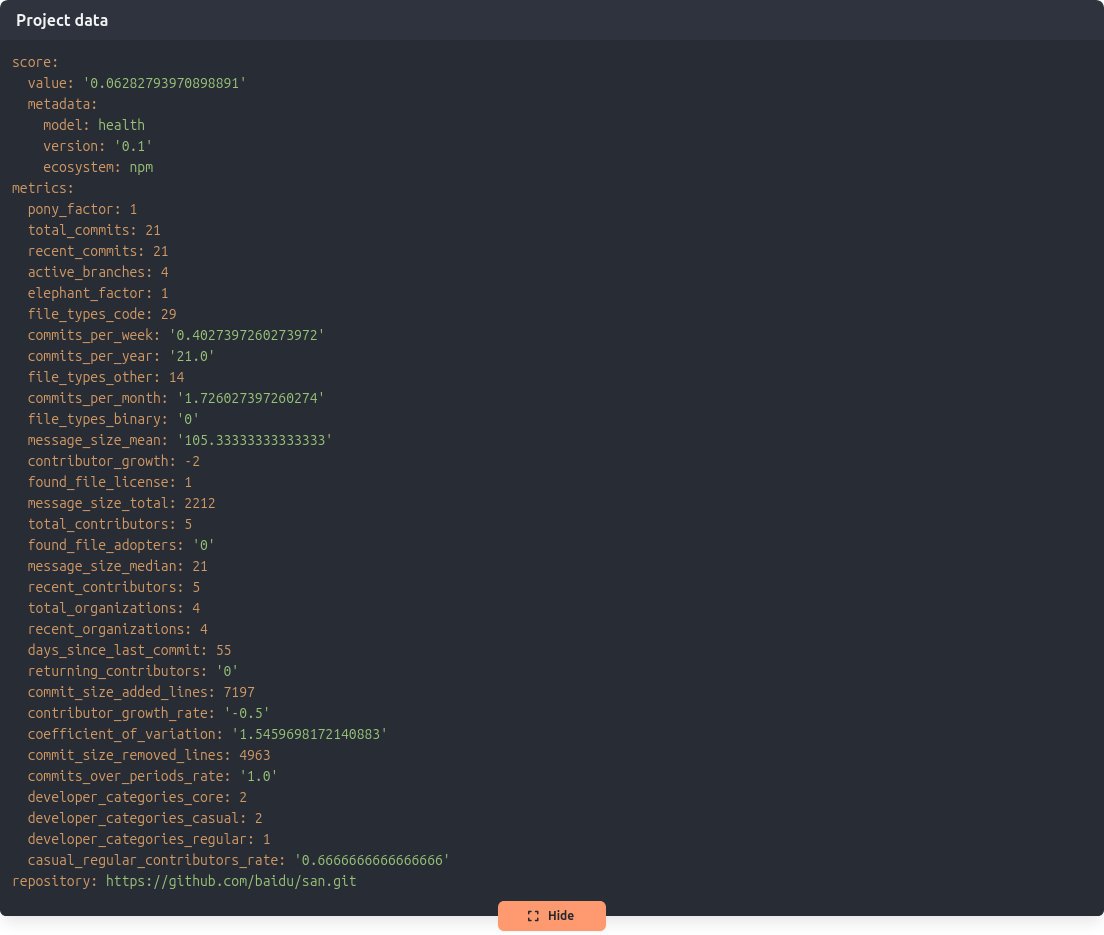
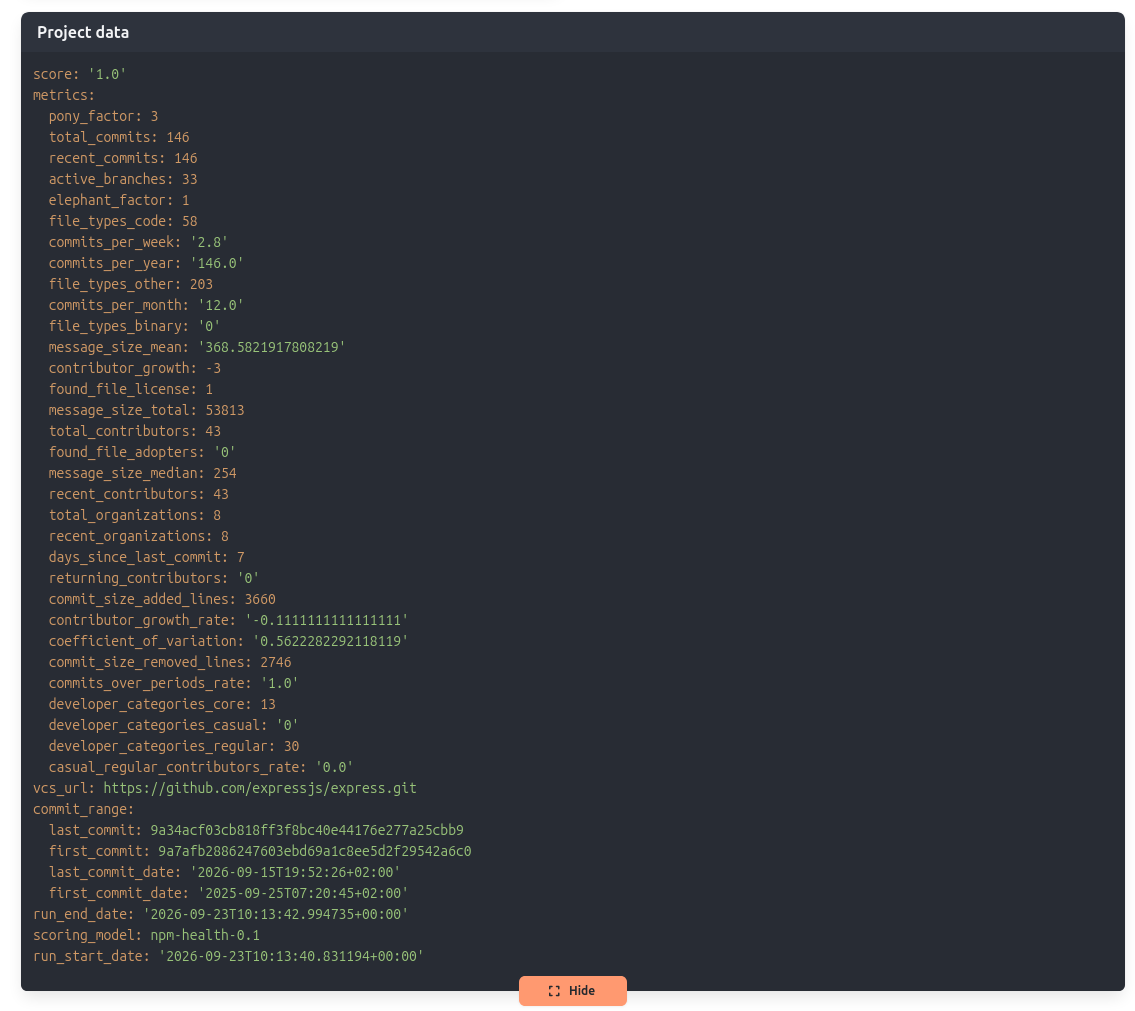
Invert healthycode repo score and update scan_repo_health output (#2238)

Changed region(s): [[0.0, 0.0, 1.0, 0.9925], [0.4312, 0.9615, 0.5543, 1.0]]

diff --git a/scanpipe/pipes/repo_health.py b/scanpipe/pipes/repo_health.py
@@ -129,24 +129,49 @@ def format_metrics_output(project, metrics_output_path):
         raise ValueError("Invalid metrics JSON: 'packages' contains no data.")
 
     target_package = packages[0]
-    repository = target_package.get("repository")
-    score = target_package.get("score")
-    metrics = target_package.get("metrics")
+    vcs_url = target_package.get("repository")
+    if not vcs_url:
+        raise ValueError("Invalid vcs_url: value cannot be empty")
 
-    if repository is None or score is None or metrics is None:
+    score_data = target_package.get("score")
+    score_meta = score_data.get("metadata") or {}
+    score = score_data.get("value") or 0.0
+
+    if 0 >= score <= 1:
         raise ValueError(
-            f"Invalid metrics JSON. missing or null field(s): "
-            f"repository: {repository}, score: {score}, metrics: {metrics}"
+            f"Invalid score value it should be between 0 and 1, score: {score}"
         )
 
+    score = round(score, 2)
+    score = 1.0 - score
+
+    score_ecosystem = score_meta.get("ecosystem") or ""
+    score_model = score_meta.get("model") or ""
+    score_version = score_meta.get("version") or ""
+
+    scoring_model = f"{score_ecosystem}-{score_model}-{score_version}"
+    metrics = target_package.get("metrics")
+
+    commit_range = target_package.get("metadata")
+    commit_range = dict(sorted(commit_range.items()))
+
+    metrics = dict(sorted(metrics.items()))
+    metadata = data.get("metadata")
+    run_start_date = metadata.get("started_at")
+    run_end_date = metadata.get("finished_at")
+
     result = {
-        "repository": repository,
+        "vcs_url": vcs_url,
+        "scoring_model": scoring_model,
         "score": score,
+        "commit_range": commit_range,
+        "run_start_date": run_start_date,
+        "run_end_date": run_end_date,
         "metrics": metrics,
     }
 
     with open(metrics_output_path, "w") as f:
-        json.dump(result, f)
+        json.dump(result, f, indent=2)
 
     project.update_extra_data(result)
 
